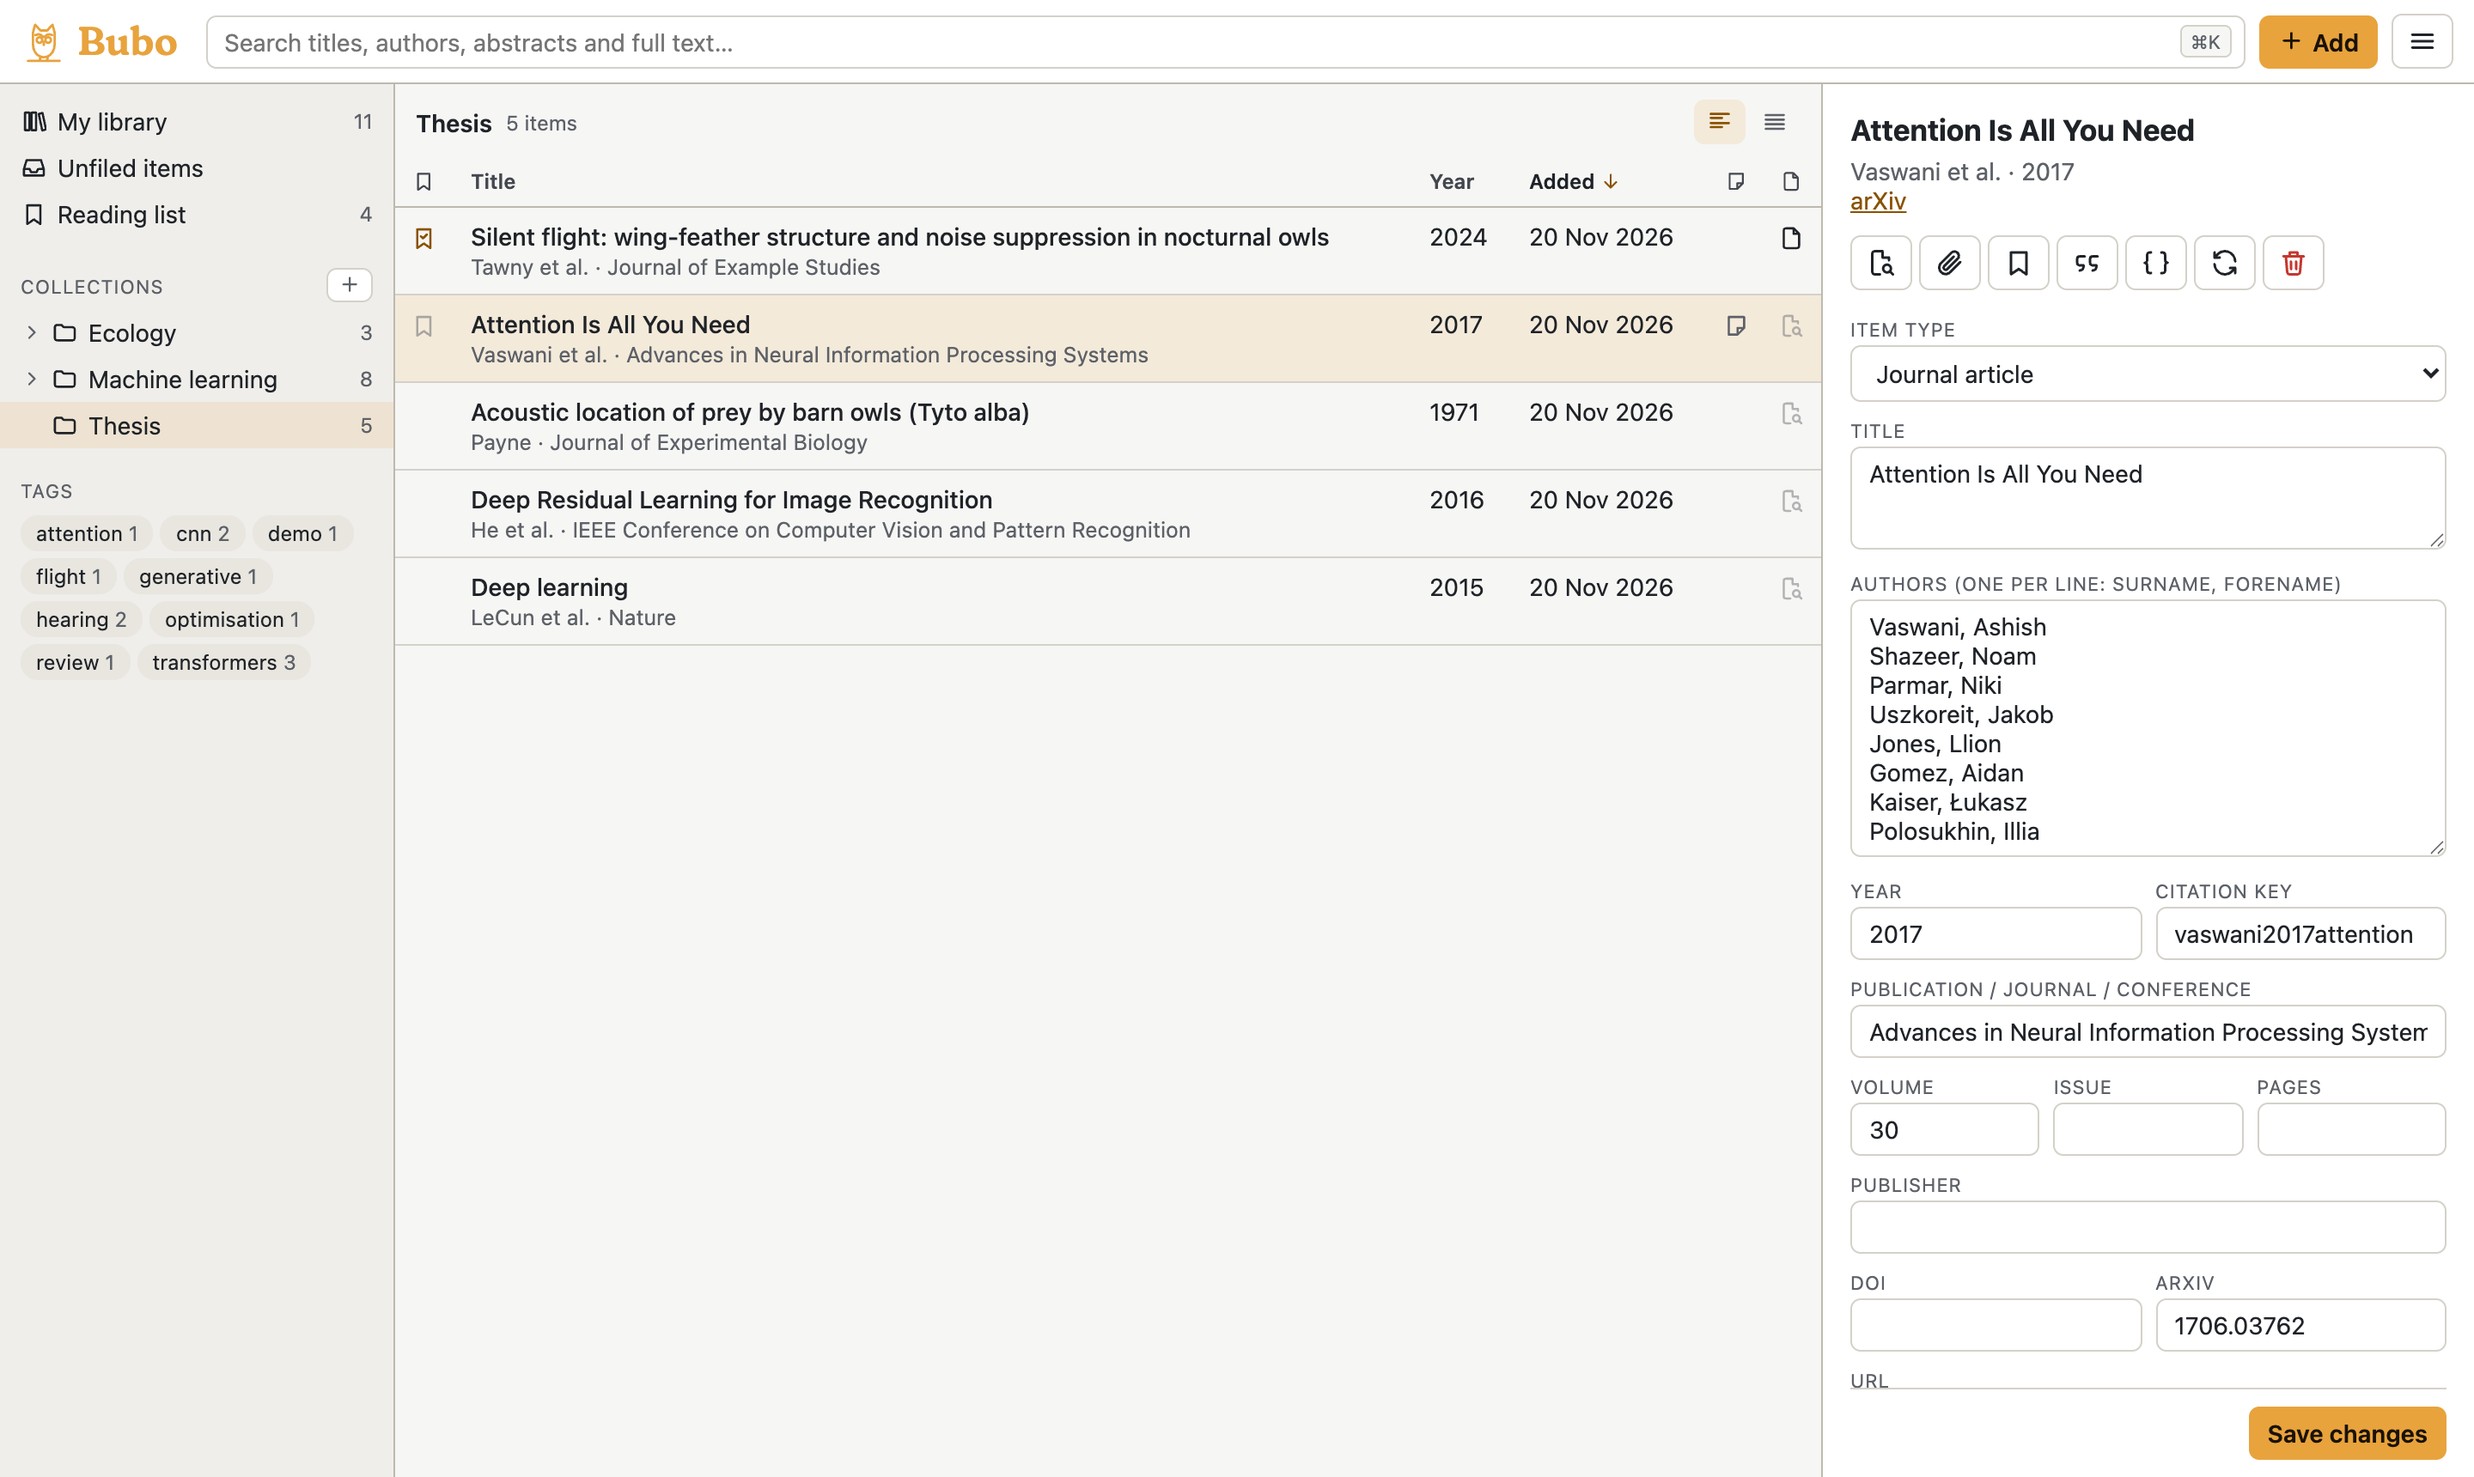
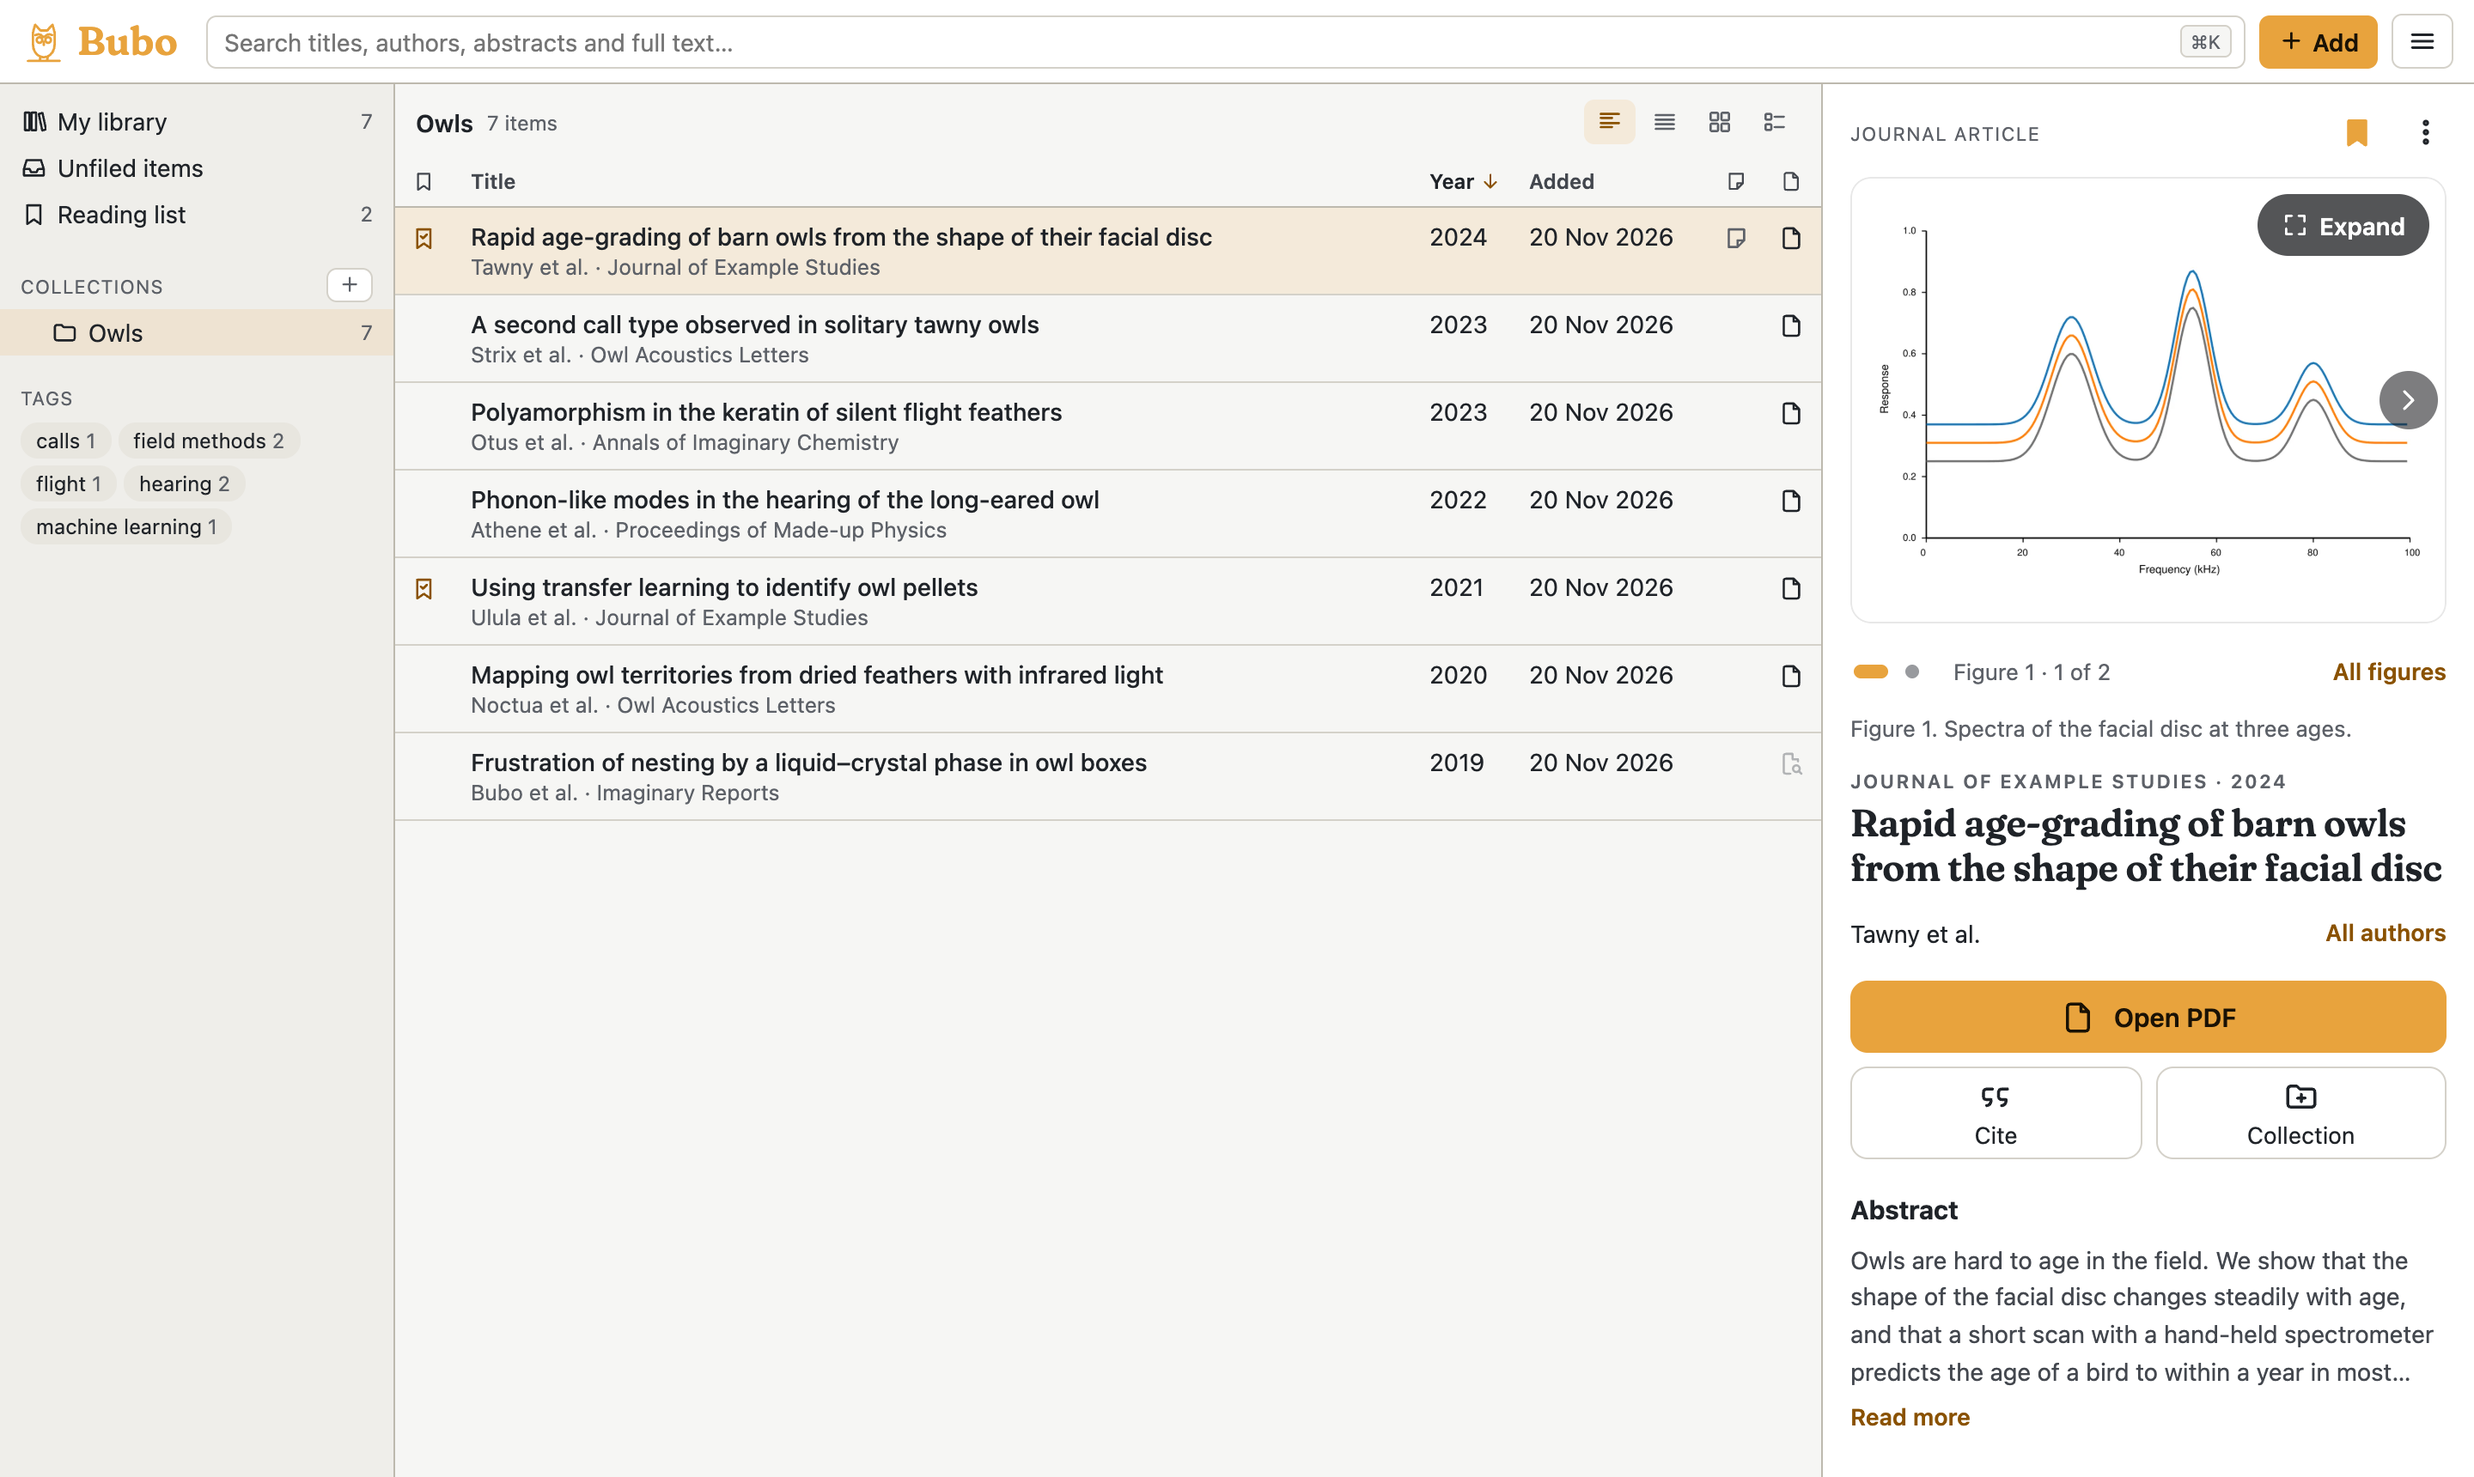
Refresh the website screenshots and describe the figure layouts and overview
New desktop screenshots of a fictional library show the paper sheet in the
item pane, search matches, the reading list with figure thumbnails and
the add dialog. A new 'See your papers by their figures' section shows the
gallery. The README describes the new library overview.

Claude-Session: https://claude.ai/code/session_01T6s2JCJnLCEiA2GaSsgUp2

diff --git a/docs/index.html b/docs/index.html
@@ -244,7 +244,7 @@ footer a { color: var(--muted); }
         <picture>
           <source srcset="assets/screenshots/library-dark.png" media="(prefers-color-scheme: dark)">
           <img src="assets/screenshots/library-light.png" width="2880" height="1720"
-            alt="The Bubo library: collections and tags on the left, a list of papers in the middle and the selected paper's details on the right">
+            alt="The Bubo library: collections and tags on the left, a list of papers in the middle and, on the right, the selected paper with a carousel of its figures, its title, an Open PDF button and its abstract">
         </picture>
       </div>
     </div>
@@ -264,7 +264,7 @@ footer a { color: var(--muted); }
           </ul>
         </div>
         <div class="shot"><img src="assets/screenshots/search.png" width="2880" height="1720" loading="lazy"
-          alt="Searching for 'serrations' shows the matching sentence under the result and both sentences with page numbers in the item pane"></div>
+          alt="Searching for 'spectra' shows the matching sentence under each result, and the paper's pane lists the sentence with its page number"></div>
       </div>
 
       <div class="row flip">
@@ -300,6 +300,21 @@ footer a { color: var(--muted); }
 
       <div class="row flip">
         <div class="copy">
+          <p class="eyebrow">Browse</p>
+          <h2>See your papers by their figures</h2>
+          <p>Bubo finds the figures in every PDF. Browse the library as a table, a gallery of figure cards or a list with thumbnails, and open any paper to swipe through its figures.</p>
+          <ul>
+            <li><svg class="i"><use href="#i-check"/></svg> Vector plots keep their axes and labels, with the caption beneath</li>
+            <li><svg class="i"><use href="#i-check"/></svg> Choose which figure is a paper's cover</li>
+            <li><svg class="i"><use href="#i-check"/></svg> With nothing selected, an overview of what you added lately, what is left to read and what needs fixing</li>
+          </ul>
+        </div>
+        <div class="shot"><img src="assets/screenshots/gallery.png" width="2880" height="1720" loading="lazy"
+          alt="The library as a gallery of cards, each showing a figure from the paper, with the selected paper's figures and details on the right"></div>
+      </div>
+
+      <div class="row">
+        <div class="copy">
           <p class="eyebrow">Organise</p>
           <h2>A reading list that works like a queue</h2>
           <p>Drag papers onto the reading list, or have new papers go there straight away. Like every list, it shows the newest papers first, or works as a queue in the order you added them.</p>
@@ -310,7 +325,7 @@ footer a { color: var(--muted); }
           </ul>
         </div>
         <div class="shot"><img src="assets/screenshots/reading-list.png" width="2880" height="1720" loading="lazy"
-          alt="The reading list with four papers, ordered oldest added first"></div>
+          alt="The reading list shown as a list with figure thumbnails; the selected paper's pane shows its details, collections, tags and notes"></div>
       </div>
     </div>
   </section>

diff --git a/README.md b/README.md
@@ -48,8 +48,9 @@ them from the browser.
   first (by publication year); the table can be sorted by any column, including the date
   added, and has a reading-list column and icons for notes and PDFs. Shift-click selects a
   range and Cmd/Ctrl-click adds or removes papers, for bulk actions or for dragging several
-  papers onto a collection at once. With nothing selected, the
-  item pane shows recently added papers, the reading list and papers with incomplete metadata.
+  papers onto a collection at once. With nothing selected (click an empty part of the list),
+  the pane shows a library overview: counts of papers, figure cards for the recently added
+  papers and the reading list, and the papers with incomplete metadata and what each lacks.
 - A **reading list** for papers you want to read: add or remove a paper with the bookmark button
   in its pane, or drag papers onto "Reading list" in the sidebar. Papers on it are marked in the
   library list. New papers can go straight onto it: turn on "Put new papers on the reading
